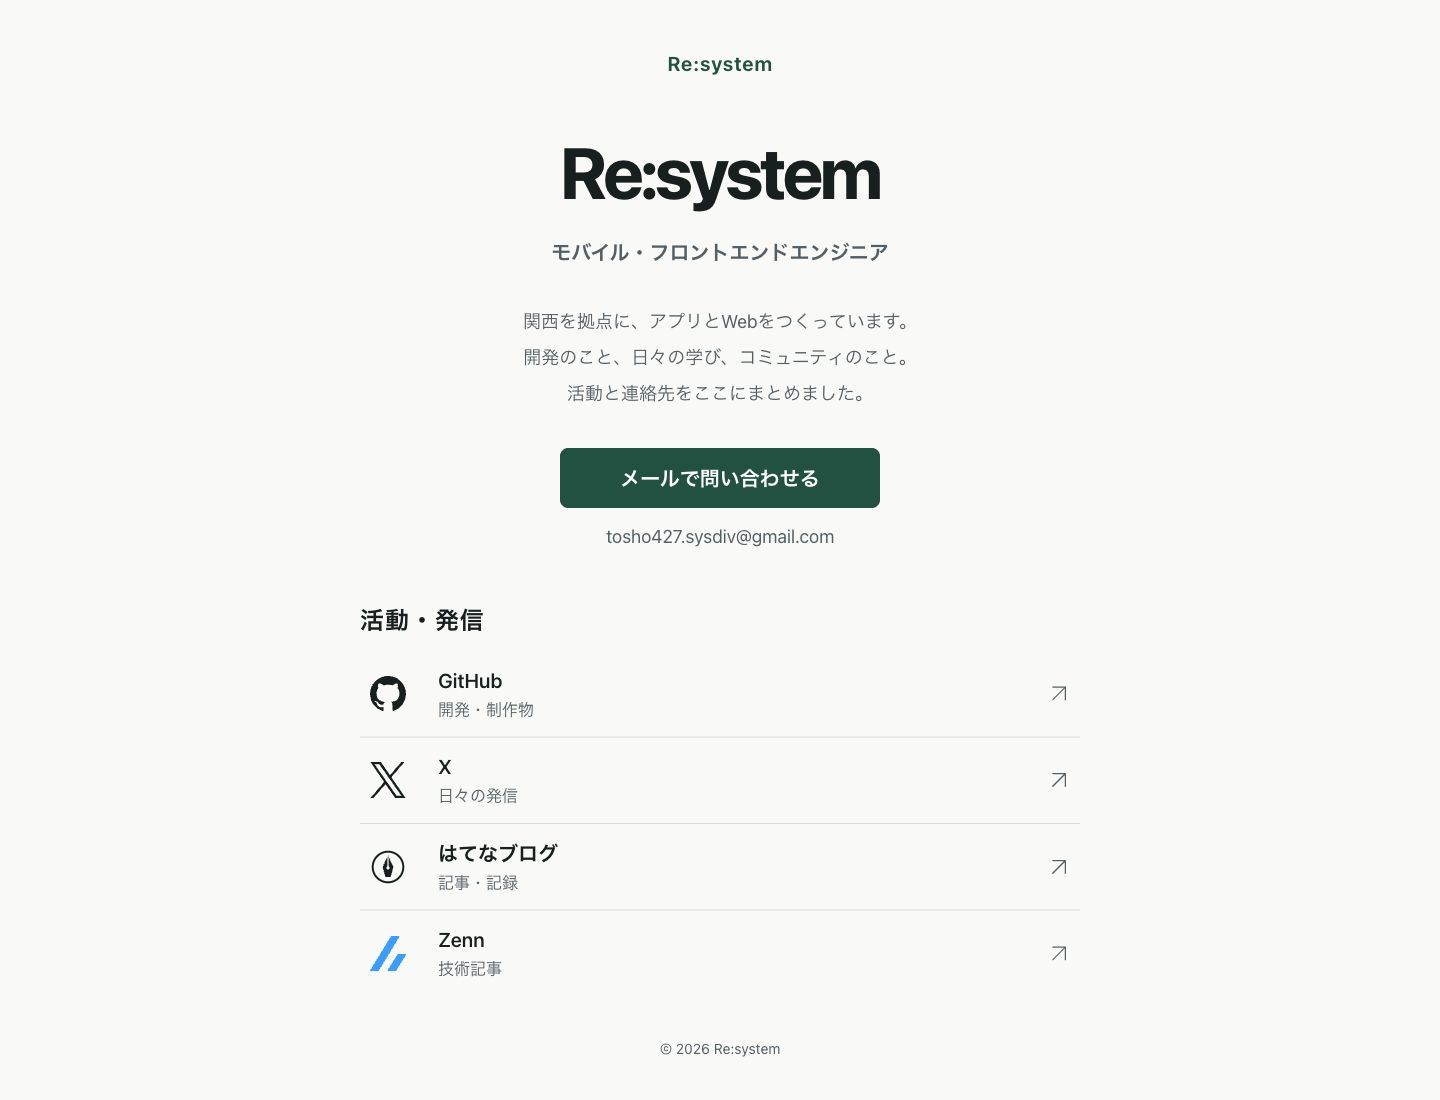
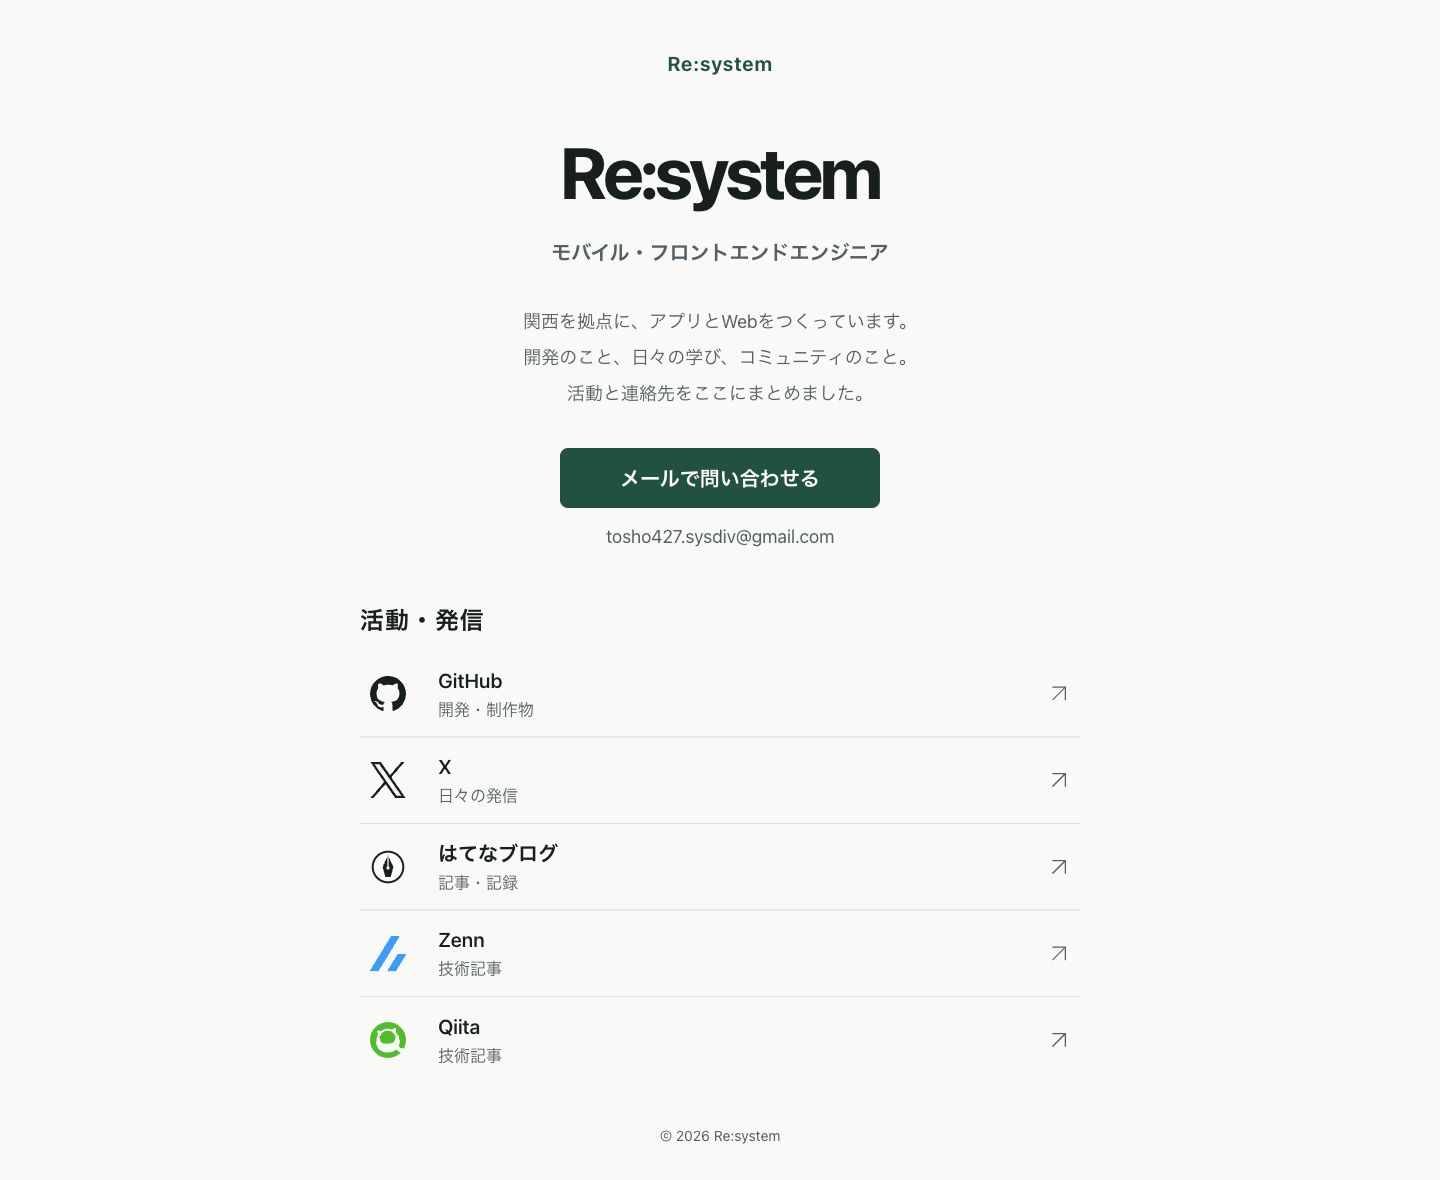
活動・発信にQiitaのリンクを追加

diff --git a/src/components/sections/Links.tsx b/src/components/sections/Links.tsx
@@ -1,13 +1,14 @@
 import styles from './Links.module.css';
 import blogIcon from '../../assets/icons/blog.svg';
 import githubIcon from '../../assets/icons/github.svg';
+import qiitaIcon from '../../assets/icons/qiita.svg';
 import xIcon from '../../assets/icons/x.svg';
 import zennIcon from '../../assets/icons/zenn.svg';
 import { profile } from '../../data/profile';
 
 import type { FC } from 'react';
 
-const icons = { github: githubIcon, x: xIcon, blog: blogIcon, zenn: zennIcon };
+const icons = { github: githubIcon, x: xIcon, blog: blogIcon, zenn: zennIcon, qiita: qiitaIcon };
 
 export const Links: FC = () => (
   <section className={styles.links} aria-labelledby="links-title">

diff --git a/src/data/profile.ts b/src/data/profile.ts
@@ -1,5 +1,5 @@
 export interface ActivityLink {
-  readonly id: 'github' | 'x' | 'blog' | 'zenn';
+  readonly id: 'github' | 'x' | 'blog' | 'zenn' | 'qiita';
   readonly name: string;
   readonly description: string;
   readonly url: string;
@@ -32,5 +32,6 @@ export const profile = {
       url: 'https://hai-haino.hatenablog.com/',
     },
     { id: 'zenn', name: 'Zenn', description: '技術記事', url: 'https://zenn.dev/haitak' },
+    { id: 'qiita', name: 'Qiita', description: '技術記事', url: 'https://qiita.com/hai_haino' },
   ] satisfies readonly ActivityLink[],
 } as const;

diff --git a/docs/verification.md b/docs/verification.md
@@ -10,11 +10,11 @@
 - 本番ビルドを `vite preview` の同ベースパスで表示。CSS・JS・アイコンの読み込み、ブラウザコンソールにerror/warnがないことを確認。
 - 360px・390px・768px・1440px幅で表示を確認。ドキュメントのスクロール幅が各ビューポート幅と一致し、横スクロールなし。
 - 720px幅でも横スクロールなし（1440pxで200%拡大した場合と同じCSS幅でのリフロー確認）。実際のブラウザ200%ズームはプレビュー環境のショートカットが反映されず、未確認。
-- 上部・h1・フッターの屋号、肩書き・紹介文、4つの活動先の順序、動的な表示年を確認。
+- 上部・h1・フッターの屋号、肩書き・紹介文、5つの活動先の順序、動的な表示年を確認。
 - `lang="ja"`、main、h1が1つ、h1→h2の見出し順、フォームなし、装飾画像の空alt。
-- メール→GitHub→X→はてなブログ→Zennの順でTab移動。各リンクに3pxの深緑フォーカス枠を確認。
+- メール→GitHub→X→はてなブログ→Zenn→Qiitaの順でTab移動。各リンクに3pxの深緑フォーカス枠を確認。
 - メールボタンは高さ60px、活動先は82px以上。アドレスは選択可能なテキストで、mailtoの宛先と一致。
-- 外部リンクは同じタブ、ダミー・空リンクなし。4つのURLがいずれもHTTP 200で応答。ただし、これだけでアカウント所有者や掲載意図の最終確認を代替するものではありません。
+- 外部リンクは同じタブ、ダミー・空リンクなし。5つのURLがいずれもHTTP 200で応答。ただし、これだけでアカウント所有者や掲載意図の最終確認を代替するものではありません。
 - 通常文字の配色は4.5:1以上：本文15.32:1、補助文字5.34:1、メールボタン7.77:1、リンクhover時の補助文字4.99:1。
 - `git diff --check`。依存定義・lockfile・workflow・Viteのベースパスに変更なし。
 
@@ -34,3 +34,10 @@
 ## スクリーンショット
 
 [PC・1440px](screenshots/desktop.png) ／ [スマートフォン・390px](screenshots/mobile.png)
+
+## Qiita追加の確認（2026-10-24）
+
+- Zennの次に `https://qiita.com/hai_haino` を追加し、HTTP 200を確認。
+- QiitaのローカルSVGが表示され、360・390・768・1440px幅で横スクロールがないことを再確認。
+- TabキーでQiitaに到達し、リンク先と3pxのフォーカス枠を確認。
+- `npm run build`、変更箇所のESLint互換モード、Prettier、`git diff --check`を通過。PC・モバイルのスクリーンショットを更新。

diff --git a/README.md b/README.md
@@ -33,7 +33,7 @@ npm run preview
 
 - 小さな屋号 → プロフィール → メール → 活動・発信 → フッターの1カラム。
 - メールボタンは `mailto:`。アドレスは選択・コピーできる通常のテキストです。
-- 活動先はGitHub、X、はてなブログ、Zennの順で、同じタブで開きます。
+- 活動先はGitHub、X、はてなブログ、Zenn、Qiitaの順で、同じタブで開きます。
 - 写真、フォーム、スキル・実績一覧、外部フォント・アイコンCDNは使用しません。
 - 従来の未使用コンポーネント・画像は保持しています。LPの表示には組み込んでいません。
 
@@ -43,12 +43,12 @@ npm run preview
 
 設計書第5節の肩書き・紹介文・メール・リンク候補を実装しています。
 特に `tosho427.sysdiv@gmail.com` を仕事用の公開先として継続使用するか、本人による最終確認が必要です。
-本作業では公開、commit、pushを行っていません。
+本番公開は未実施です。実装はPRでレビューします。
 
 既存のGitHub Pages用ベースパスとworkflowは保持しています。
 本番URL確定後にcanonical・`og:url`・必要に応じたOGP画像を設定し、公開後は実URLで表示・リンクを確認してください。
 
 ## アイコン
 
-GitHub・X・Zennは [Simple Icons](https://github.com/simple-icons/simple-icons) のSVGをローカルに保持しています（CC0、各商標は権利者に帰属）。
+GitHub・X・Zenn・Qiitaは [Simple Icons](https://github.com/simple-icons/simple-icons) のSVGをローカルに保持しています（CC0、各商標は権利者に帰属）。
 はてなブログの行は、このLP用の汎用ペンアイコンです。設計モックの画像を切り抜いたものではありません。

diff --git a/docs/design.md b/docs/design.md
@@ -13,7 +13,7 @@
 - 屋号は上部・h1・フッターで `Re:system` に統一。
 - 標準サンセリフを使用。メイン屋号はPC72px、スマートフォン40〜48px。
 - 問い合わせボタンは幅320px以内、高さ60px以上、角丸8px。連絡先文字列を直下に表示。
-- 活動先はGitHub → X → はてなブログ → Zenn。行全体をリンクにし、80px以上の高さと罫線で整理。
+- 活動先はGitHub → X → はてなブログ → Zenn → Qiita。Qiitaは2026-10-24の追加依頼を反映。行全体をリンクにし、80px以上の高さと罫線で整理。
 - 通常のメールリンク、外部リンクは同じタブ。送信完了を装う表示を設けない。
 - 写真・フォーム・スキル一覧・実績一覧・固定ナビ・出現待ちアニメーションは表示しない。
 - 1つのh1、main、見出し順、キーボードフォーカス、装飾アイコンの空altを使用。
